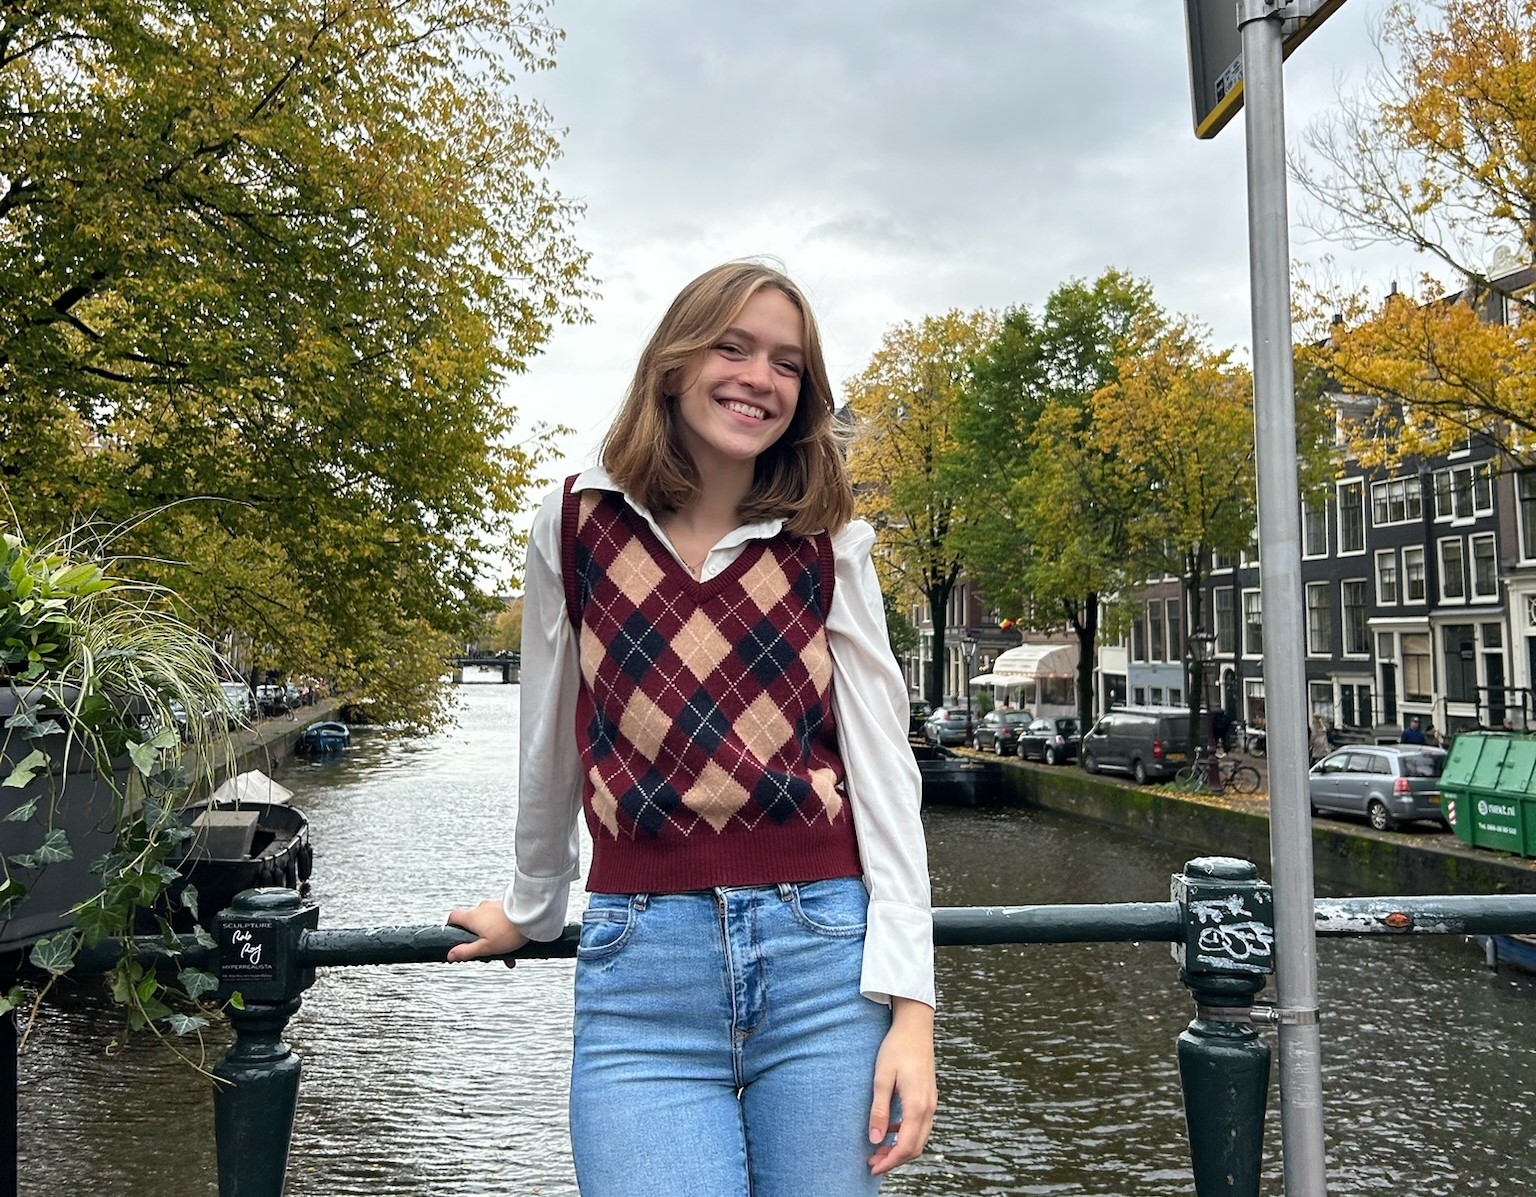
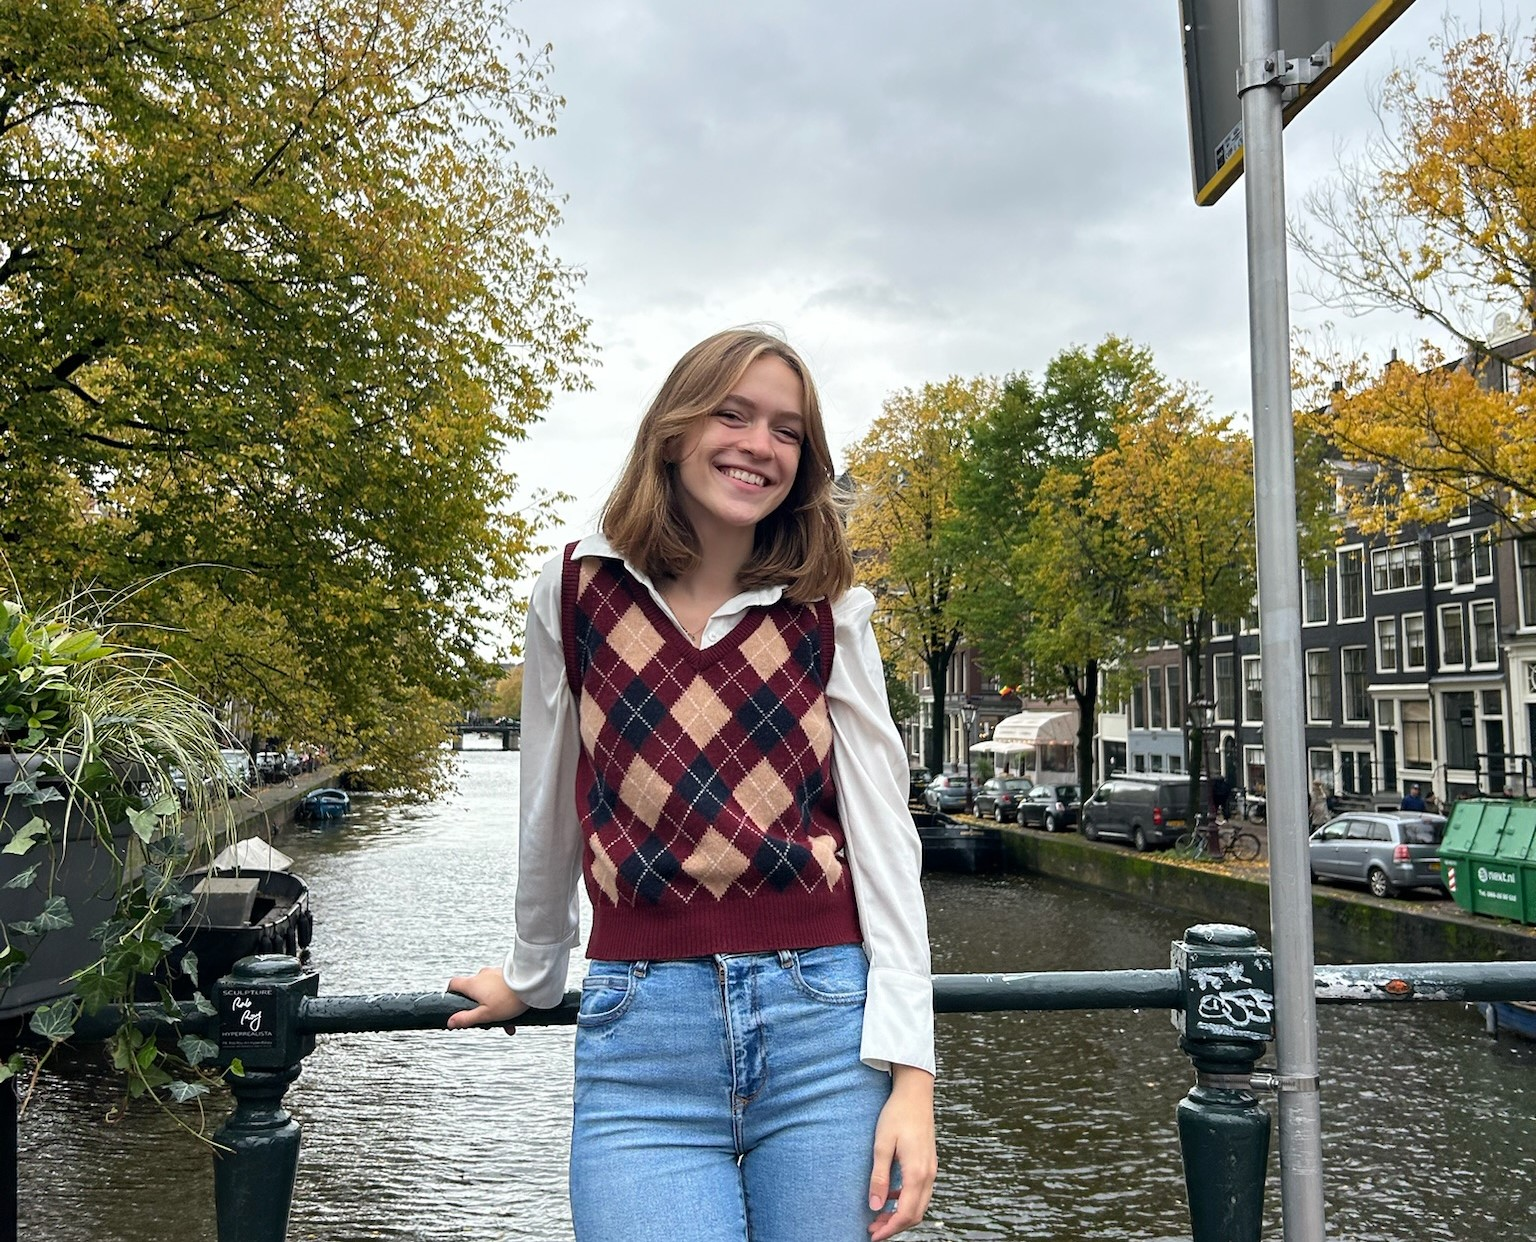
Created new pages

diff --git a/index.html b/index.html
@@ -36,11 +36,11 @@
 
                 <div class="collapse navbar-collapse justify-content-between" id="navbarCollapse">
                     <div class="navbar-nav ml-auto">
-                        <a href="#home" class="nav-item nav-link active">Home</a>
+                        <a href="#home" class="nav-item nav-link">Home</a>
                         <a href="#about" class="nav-item nav-link">About</a>
                         <a href="#service" class="nav-item nav-link">Skills</a>
                         <a href="#experience" class="nav-item nav-link">Experience</a>
-                        <a href="documents/CarolineJareb_Resume.pdf" class="nav-item nav-link">Resume</a>
+                        <a href="resume.html" class="nav-item nav-link">Resume</a>
                     </div>
                 </div>
             </div>
@@ -57,10 +57,10 @@
                             <div class="hero-text">
                                 <h1>Caroline Jareb</h1>
                                 <h2></h2>
-                                <div class="typed-text">BA Computer Science at UVA, BA Mathematics at UVA</div>
+                                <div class="typed-text">Software Developer, BA Computer Science, BA Mathematics</div>
                             </div>
                             <div class="hero-btn">
-                                <a class="btn" href="documents/CarolineJareb_Resume.pdf">Resume</a>
+                                <a class="btn" href="resume.html">Resume</a>
                                 <a class="btn" href="https://www.linkedin.com/in/caroline-jareb/">LinkedIn</a>
                                 <a class="btn" href="https://github.com/crjareb">GitHub</a>
                             </div>
@@ -93,10 +93,10 @@
                             </div>
                             <div class="about-text">
                                 <p>
-                                    I have always enjoyed problem solving, and I am grateful for the amazing opportunities I've had to learn more about math and coding at the University of Virginia in my classes and from working at the Biocomplexity Institute. I have loved applying what I have learned in the classroom to important real world problems and further developing my skills writing efficient code and managing large projects and datasets. 
+                                    I will be graduating from the University of Virginia in May 2025 with a Bachelor of Arts in Mathematics and Computer Science. I have grown as a leader, collaborator, and problem solver over the last few years, and I am grateful for the opportunities I have had at UVA and abroad. My classes have prepared me well to think analytically and understand data structures and algorithms. It has been satisfying to use my skills to understand real world problems such as the spread of epidemics and heat exposure at the Biocomplexity Institute at UVA. I have gained valuable skills while working with colleagues to achieve academic as well as artistic goals. It has been important to me to learn from a variety of perspectives for example while creating video games with my classmates in Copenhagen or designing and running production for a large musical. I enjoy following my passions to help make the world a better place and plan to continue to in my work and personal ventures.
                                 </p>
                                 <p>
-                                    Outside of work, I am passionate about education and the arts. My experiences as a teacher, tutor, actor, technician, producer, and more have helped me develop strong leadership and communication skills as well as learn from a variety of perspectives. I try to use every opportunity to learn, and look forward to continue to grow after I graduate in May 2025.
+                                    I am currently looking for full time employment in software development.
                                 </p>
                             </div>
                         </div>
@@ -121,9 +121,22 @@
                                 <i class="fa fa-laptop-code"></i>
                             </div>
                             <div class="service-text">
-                                <h3>Data Visualization</h3>
+                                <h3>Coding</h3>
                                 <p>
-                                    Using MatPlotLib and Plotly in Python and D3 in JavaScript, I have visualized epidemic transmission networks using edge bundling and cloropleth maps.
+                                    Experienced in developing well-structured, efficient code for large scale projects at work, in classes, and for fun.
+                                </p>
+                            </div>
+                        </div>
+                    </div>
+                    <div class="col-lg-6 wow fadeInUp" data-wow-delay="0.4s">
+                        <div class="service-item">
+                            <div class="service-icon">
+                                <i class="fa fa-database"></i>
+                            </div>
+                            <div class="service-text">
+                                <h3>Data</h3>
+                                <p>
+                                    I am familiar with SQL database querying and have accessed large population datasets in order to create and analyze visualizations.
                                 </p>
                             </div>
                         </div>
@@ -136,20 +149,7 @@
                             <div class="service-text">
                                 <h3>Project Management</h3>
                                 <p>
-                                    Through diverse experiences as a leader and collaborator, I have learned how to set goals and delegate work to achieve an end result. I know how to create well-structured code for large scale projects.
-                                </p>
-                            </div>
-                        </div>
-                    </div>
-                    <div class="col-lg-6 wow fadeInUp" data-wow-delay="0.4s">
-                        <div class="service-item">
-                            <div class="service-icon">
-                                <i class="fa fa-database"></i>
-                            </div>
-                            <div class="service-text">
-                                <h3>Databases</h3>
-                                <p>
-                                    I am familiar with SQL database querying and have accessed large population datasets through postgresql at the Biocomplexity Institute.
+                                    Through diverse experiences as a leader and collaborator, I have learned how to set goals and delegate work to achieve an end result. 
                                 </p>
                             </div>
                         </div>
@@ -192,6 +192,9 @@
                             </p>
                             <a class="btn" href="https://nssac.bii.virginia.edu/~sphere/">Website</a>
                         </div>
+                        <div>
+
+                        </div>
                     </div>
                     <div class="timeline-item left wow slideInLeft" data-wow-delay="0.1s">
                         <div class="timeline-text">
@@ -203,7 +206,7 @@
                                 to visualize massive networks of simulated epidemic transmissions. 
                                 I presented and discussed results and challenges weekly with other researchers and interns culminating in a poster session.<br />                   
                             </p>
-                            <a class="btn" href="documents/c4gc_epidemic_visualization_poster.pdf">Poster</a>
+                            <a class="btn" href="c4gc.html">Poster</a>
                         </div>
                     </div>
                     <div class="timeline-item right wow slideInRight" data-wow-delay="0.1s">
@@ -262,17 +265,15 @@
             <div class="container-fluid">
                 <div class="container">
                     <div class="footer-info">
-                        <h2>Caroline Jareb</h2>
                         <div class="footer-menu">
                             <p>cjareb@gmail.com</p>
                             <p>zne5qp@virginia.edu</p>
                         </div>
                         <div class="footer-social">
-                            <a href=""><i class="fab fa-twitter"></i></a>
-                            <a href=""><i class="fab fa-facebook-f"></i></a>
-                            <a href=""><i class="fab fa-youtube"></i></a>
-                            <a href=""><i class="fab fa-instagram"></i></a>
-                            <a href=""><i class="fab fa-linkedin-in"></i></a>
+                            <a href="https://www.instagram.com/crjareb"><i class="fab fa-instagram"></i></a>
+                            <a href="https://www.facebook.com/cjareb/"><i class="fab fa-facebook-f"></i></a>
+                            <a href="https://www.youtube.com/@carolinejareb2165"><i class="fab fa-youtube"></i></a>
+                            <a href="https://www.linkedin.com/in/caroline-jareb/"><i class="fab fa-linkedin-in"></i></a>
                         </div>
                     </div>
                 </div>

diff --git a/c4gc.html b/c4gc.html
@@ -1,0 +1,115 @@
+<!DOCTYPE html>
+<html lang="en">
+    <head>
+        <meta charset="utf-8">
+        <title>Caroline Jareb</title>
+        <meta content="width=device-width, initial-scale=1.0" name="viewport">
+        <meta content="Caroline Jareb is a Problem Solver, Software Developer, Data Scientist, Mathemetician..." name="description">
+
+        <!-- Favicon -->
+        <link href="img/favicon.ico" rel="icon">
+
+        <!-- Google Font -->
+        <link href="https://fonts.googleapis.com/css2?family=Montserrat:wght@300;400;500;600;700&display=swap" rel="stylesheet">
+        <link href="https://fonts.googleapis.com/css2?family=Titillium+Web:ital,wght@0,200;0,300;0,400;0,600;0,700;0,900;1,200;1,300;1,400;1,600;1,700&display=swap" rel="stylesheet">
+        <link href="https://fonts.googleapis.com/css2?family=Cedarville+Cursive&display=swap" rel="stylesheet">
+
+        <!-- CSS Libraries -->
+        <link href="https://stackpath.bootstrapcdn.com/bootstrap/4.4.1/css/bootstrap.min.css" rel="stylesheet">
+        <link href="https://cdnjs.cloudflare.com/ajax/libs/font-awesome/5.10.0/css/all.min.css" rel="stylesheet">
+        <link href="lib/animate/animate.min.css" rel="stylesheet">
+        <link href="lib/owlcarousel/assets/owl.carousel.min.css" rel="stylesheet">
+        <link href="lib/lightbox/css/lightbox.min.css" rel="stylesheet">
+
+        <!-- Template Stylesheet -->
+        <link href="css/style.css" rel="stylesheet">
+    </head>
+
+    <body data-spy="scroll" data-target=".navbar" data-offset="51">
+        <!-- Nav Bar Start -->
+        <div class="navbar navbar-expand-lg bg-light navbar-light">
+            <div class="container-fluid">
+                <a href="index.html" class="navbar-brand">CAROLINE JAREB</a>
+                <button type="button" class="navbar-toggler" data-toggle="collapse" data-target="#navbarCollapse">
+                    <span class="navbar-toggler-icon"></span>
+                </button>
+
+                <div class="collapse navbar-collapse justify-content-between" id="navbarCollapse">
+                    <div class="navbar-nav ml-auto">
+                        <a href="#home" class="nav-item nav-link">Home</a>
+                    </div>
+                </div>
+            </div>
+        </div>
+        <!-- Nav Bar End -->
+
+        <div class="hero" id="home">
+            <div class="container-fluid">
+                <div class="row align-items-center">
+                    <div class="col-sm-12 col-md-6">
+                        <div class="hero-content">
+                        </div>
+                    </div>
+                </div>
+            </div>
+        </div>
+
+        <div class="pdf">
+            <embed src="documents/c4gc_epidemic_visualization_poster.pdf" width="1200" height="1850" type="application/pdf">
+        </div>
+
+
+        <!-- Footer Start -->
+        <div class="footer wow fadeIn" data-wow-delay="0.3s">
+            <div class="container-fluid">
+                <div class="container">
+                    <div class="footer-info">
+                        <div class="footer-menu">
+                            <p>cjareb@gmail.com</p>
+                            <p>zne5qp@virginia.edu</p>
+                        </div>
+                        <div class="footer-social">
+                            <a href="https://www.instagram.com/crjareb"><i class="fab fa-instagram"></i></a>
+                            <a href="https://www.facebook.com/cjareb/"><i class="fab fa-facebook-f"></i></a>
+                            <a href="https://www.youtube.com/@carolinejareb2165"><i class="fab fa-youtube"></i></a>
+                            <a href="https://www.linkedin.com/in/caroline-jareb/"><i class="fab fa-linkedin-in"></i></a>
+                        </div>
+                    </div>
+                </div>
+                <div class="container copyright">
+                    <p>&copy; <a href="#">carolinejareb.com</a>, All Right Reserved | Designed By <a href="https://htmlcodex.com">HTML Codex</a></p>
+                </div>
+            </div>
+        </div>
+        <!-- Footer End -->
+        
+        
+        <!-- Back to top button -->
+        <a href="#" class="btn back-to-top"><i class="fa fa-chevron-up"></i></a>
+        
+        
+        <!-- Pre Loader -->
+        <div id="loader" class="show">
+            <div class="loader"></div>
+        </div>
+
+        
+        <!-- JavaScript Libraries -->
+        <script src="https://code.jquery.com/jquery-3.4.1.min.js"></script>
+        <script src="https://stackpath.bootstrapcdn.com/bootstrap/4.4.1/js/bootstrap.bundle.min.js"></script>
+        <script src="lib/easing/easing.min.js"></script>
+        <script src="lib/wow/wow.min.js"></script>
+        <script src="lib/waypoints/waypoints.min.js"></script>
+        <script src="lib/typed/typed.min.js"></script>
+        <script src="lib/owlcarousel/owl.carousel.min.js"></script>
+        <script src="lib/isotope/isotope.pkgd.min.js"></script>
+        <script src="lib/lightbox/js/lightbox.min.js"></script>
+        
+        <!-- Contact Javascript File -->
+        <script src="mail/jqBootstrapValidation.min.js"></script>
+        <script src="mail/contact.js"></script>
+
+        <!-- Template Javascript -->
+        <script src="js/main.js"></script>
+    </body>
+</html>

diff --git a/resume.html b/resume.html
@@ -1,0 +1,115 @@
+<!DOCTYPE html>
+<html lang="en">
+    <head>
+        <meta charset="utf-8">
+        <title>Caroline Jareb</title>
+        <meta content="width=device-width, initial-scale=1.0" name="viewport">
+        <meta content="Caroline Jareb is a Problem Solver, Software Developer, Data Scientist, Mathemetician..." name="description">
+
+        <!-- Favicon -->
+        <link href="img/favicon.ico" rel="icon">
+
+        <!-- Google Font -->
+        <link href="https://fonts.googleapis.com/css2?family=Montserrat:wght@300;400;500;600;700&display=swap" rel="stylesheet">
+        <link href="https://fonts.googleapis.com/css2?family=Titillium+Web:ital,wght@0,200;0,300;0,400;0,600;0,700;0,900;1,200;1,300;1,400;1,600;1,700&display=swap" rel="stylesheet">
+        <link href="https://fonts.googleapis.com/css2?family=Cedarville+Cursive&display=swap" rel="stylesheet">
+
+        <!-- CSS Libraries -->
+        <link href="https://stackpath.bootstrapcdn.com/bootstrap/4.4.1/css/bootstrap.min.css" rel="stylesheet">
+        <link href="https://cdnjs.cloudflare.com/ajax/libs/font-awesome/5.10.0/css/all.min.css" rel="stylesheet">
+        <link href="lib/animate/animate.min.css" rel="stylesheet">
+        <link href="lib/owlcarousel/assets/owl.carousel.min.css" rel="stylesheet">
+        <link href="lib/lightbox/css/lightbox.min.css" rel="stylesheet">
+
+        <!-- Template Stylesheet -->
+        <link href="css/style.css" rel="stylesheet">
+    </head>
+
+    <body data-spy="scroll" data-target=".navbar" data-offset="51">
+        <!-- Nav Bar Start -->
+        <div class="navbar navbar-expand-lg bg-light navbar-light">
+            <div class="container-fluid">
+                <a href="index.html" class="navbar-brand">CAROLINE JAREB</a>
+                <button type="button" class="navbar-toggler" data-toggle="collapse" data-target="#navbarCollapse">
+                    <span class="navbar-toggler-icon"></span>
+                </button>
+
+                <div class="collapse navbar-collapse justify-content-between" id="navbarCollapse">
+                    <div class="navbar-nav ml-auto">
+                        <a href="#home" class="nav-item nav-link">Home</a>
+                    </div>
+                </div>
+            </div>
+        </div>
+        <!-- Nav Bar End -->
+
+        <div class="hero" id="home">
+            <div class="container-fluid">
+                <div class="row align-items-center">
+                    <div class="col-sm-12 col-md-6">
+                        <div class="hero-content">
+                        </div>
+                    </div>
+                </div>
+            </div>
+        </div>
+
+        <div class="pdf">
+            <embed src="documents/CarolineJareb_Resume.pdf" width="800" height="1100" type="application/pdf">
+        </div>
+
+
+        <!-- Footer Start -->
+        <div class="footer wow fadeIn" data-wow-delay="0.3s">
+            <div class="container-fluid">
+                <div class="container">
+                    <div class="footer-info">
+                        <div class="footer-menu">
+                            <p>cjareb@gmail.com</p>
+                            <p>zne5qp@virginia.edu</p>
+                        </div>
+                        <div class="footer-social">
+                            <a href="https://www.instagram.com/crjareb"><i class="fab fa-instagram"></i></a>
+                            <a href="https://www.facebook.com/cjareb/"><i class="fab fa-facebook-f"></i></a>
+                            <a href="https://www.youtube.com/@carolinejareb2165"><i class="fab fa-youtube"></i></a>
+                            <a href="https://www.linkedin.com/in/caroline-jareb/"><i class="fab fa-linkedin-in"></i></a>
+                        </div>
+                    </div>
+                </div>
+                <div class="container copyright">
+                    <p>&copy; <a href="#">carolinejareb.com</a>, All Right Reserved | Designed By <a href="https://htmlcodex.com">HTML Codex</a></p>
+                </div>
+            </div>
+        </div>
+        <!-- Footer End -->
+        
+        
+        <!-- Back to top button -->
+        <a href="#" class="btn back-to-top"><i class="fa fa-chevron-up"></i></a>
+        
+        
+        <!-- Pre Loader -->
+        <div id="loader" class="show">
+            <div class="loader"></div>
+        </div>
+
+        
+        <!-- JavaScript Libraries -->
+        <script src="https://code.jquery.com/jquery-3.4.1.min.js"></script>
+        <script src="https://stackpath.bootstrapcdn.com/bootstrap/4.4.1/js/bootstrap.bundle.min.js"></script>
+        <script src="lib/easing/easing.min.js"></script>
+        <script src="lib/wow/wow.min.js"></script>
+        <script src="lib/waypoints/waypoints.min.js"></script>
+        <script src="lib/typed/typed.min.js"></script>
+        <script src="lib/owlcarousel/owl.carousel.min.js"></script>
+        <script src="lib/isotope/isotope.pkgd.min.js"></script>
+        <script src="lib/lightbox/js/lightbox.min.js"></script>
+        
+        <!-- Contact Javascript File -->
+        <script src="mail/jqBootstrapValidation.min.js"></script>
+        <script src="mail/contact.js"></script>
+
+        <!-- Template Javascript -->
+        <script src="js/main.js"></script>
+    </body>
+</html>

diff --git a/css/style.css b/css/style.css
@@ -61,6 +61,17 @@ a:focus {
     border-color: #144331;
 }
 
+.pdf {
+    display: flex;
+    justify-content: center;
+    margin-top: 50px;
+}
+
+embed {
+    display: block;
+    max-width: 100%;
+}
+
 #loader {
     position: fixed;
     top: 0;
@@ -504,7 +515,7 @@ a:focus {
 }
 
 .about .about-content {
-    padding: 0 60px;
+    padding: 0 20px;
 }
 
 .about .about-text p {
@@ -692,6 +703,12 @@ a:focus {
     background: transparent;
     box-shadow: inset 0 0 0 0 #ffffff;
     border-color: #ffffff;
+}
+
+.experience .timeline .timeline-image img {
+    display: block;
+    margin-left: auto;
+    margin-right: 0;
 }
 
 
